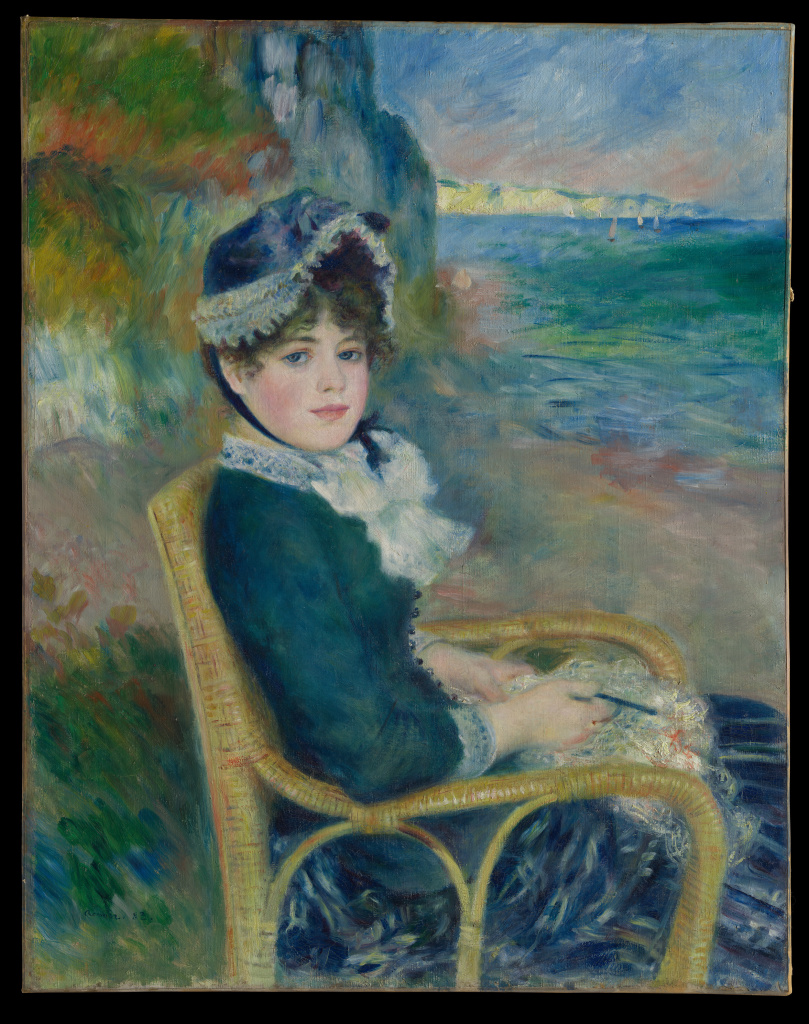
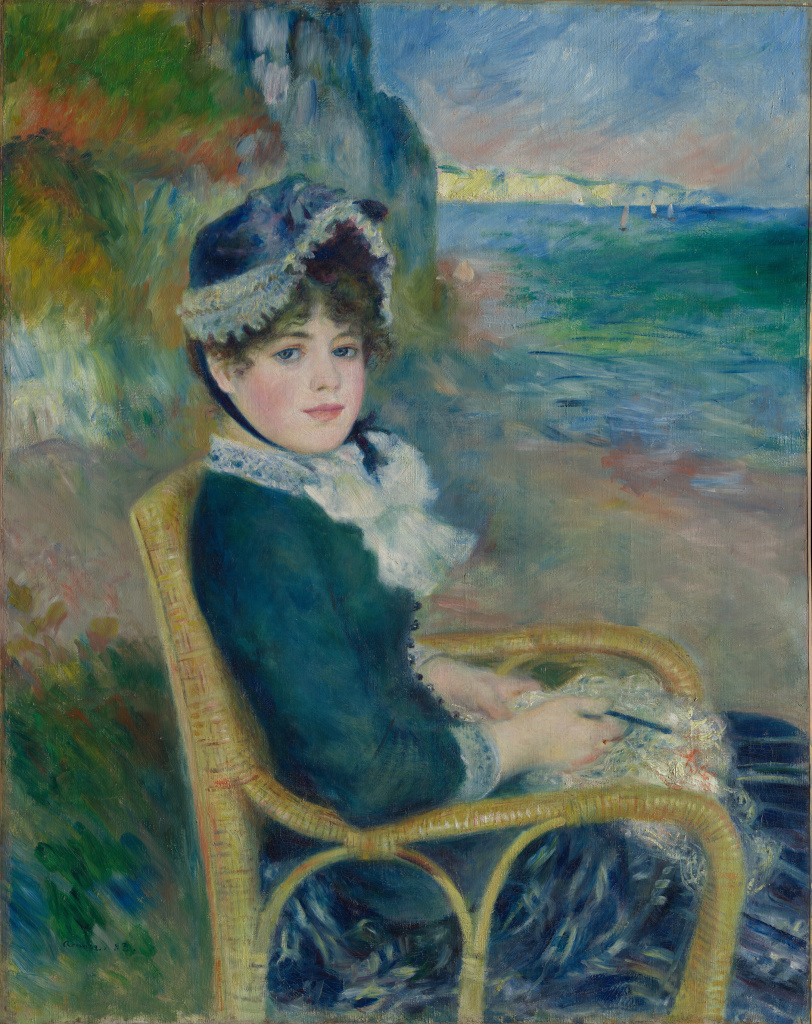
stick zoom, fixed borders

diff --git a/tools/prescale.c b/tools/prescale.c
@@ -1,13 +1,28 @@
 // Host tool: shrink an image so its long side is at most MAXSIDE and write it out as a
 // lossless PNG, or as a JPEG if out ends in .jpg (quality PRESCALE_JPGQ, 4:4:4).
 // Uses the same area-average scaler as the 3DS (source/imgscale.c). Never upscales.
+// Near-black borders (like museum photos shot against black) are trimmed first, plus a
+// small inset so no dark fringe survives.
 //   prescale <maxside> <in> <out.png|out.jpg>
+#include <stdint.h>
 #include <stdio.h>
 #include <stdlib.h>
 #include <string.h>
 #include <strings.h>
 
 #define PRESCALE_JPGQ 95
+#define PRESCALE_BLACK 12        // A border row/column has mean brightness below this
+#define PRESCALE_INSET 0.005f    // Extra trim past the border, fraction of the image size
+
+// Mean brightness of n pixels starting at (x, y), stepping (dx, dy)
+static float prescale_line(const uint8_t * p, int w, int x, int y, int dx, int dy, int n) {
+  float s = 0;
+  for(int i = 0; i < n; i++) {
+    const uint8_t * q = p + ((size_t)(y + dy * i) * w + x + dx * i) * 3;
+    s += (q[0] + q[1] + q[2]) / 3.0f;
+  }
+  return s / n;
+}
 
 #include "imgscale.h"
 
@@ -27,11 +42,22 @@ int main(int argc, char ** argv) {
     fprintf(stderr, "%s: %s\n", argv[2], stbi_failure_reason());
     return 1;
   }
-  float s = (float)maxside / (w > h ? w : h);
+  // Trim black borders (never more than a quarter per side), then the inset if any was found
+  int t = 0, b = 0, l = 0, r = 0;
+  while(t < h / 4 && prescale_line(src, w, 0, t, 1, 0, w) < PRESCALE_BLACK) t++;
+  while(b < h / 4 && prescale_line(src, w, 0, h - 1 - b, 1, 0, w) < PRESCALE_BLACK) b++;
+  while(l < w / 4 && prescale_line(src, w, l, 0, 0, 1, h) < PRESCALE_BLACK) l++;
+  while(r < w / 4 && prescale_line(src, w, w - 1 - r, 0, 0, 1, h) < PRESCALE_BLACK) r++;
+  if(t + b + l + r > 0) {
+    int ix = (int)(w * PRESCALE_INSET + 0.5f), iy = (int)(h * PRESCALE_INSET + 0.5f);
+    t += iy; b += iy; l += ix; r += ix;
+  }
+  int cw = w - l - r, ch = h - t - b;
+  float s = (float)maxside / (cw > ch ? cw : ch);
   if(s > 1) s = 1;
-  int dw = (int)(w * s + 0.5f), dh = (int)(h * s + 0.5f);
+  int dw = (int)(cw * s + 0.5f), dh = (int)(ch * s + 0.5f);
   uint8_t * dst = malloc((size_t)dw * dh * 3);
-  if(!dst || imgscale_area(src, w, h, 3, 0, 0, w, h, dst, dw, dh)) {
+  if(!dst || imgscale_area(src, w, h, 3, l, t, cw, ch, dst, dw, dh)) {
     fprintf(stderr, "out of memory\n");
     return 1;
   }
@@ -47,7 +73,7 @@ int main(int argc, char ** argv) {
     fprintf(stderr, "can't write %s\n", argv[3]);
     return 1;
   }
-  printf("%s: %dx%d -> %dx%d\n", argv[3], w, h, dw, dh);
+  printf("%s: %dx%d, trimmed t%d b%d l%d r%d -> %dx%d\n", argv[3], w, h, t, b, l, r, dw, dh);
   free(dst);
   stbi_image_free(src);
   return 0;

diff --git a/source_app/game.h b/source_app/game.h
@@ -5,6 +5,7 @@
 
 #include "board.h"
 #include "camera.h"
+#include "stick.h"
 #include "puzzlegfx.h"
 #include "render.h"
 #include "savewriter.h"
@@ -16,8 +17,12 @@
 #define GAME_SNAP 0.3f            // Snap distance, in cells
 #define GAME_MAXZOOM 2.0f
 #define GAME_STARTCELL 28.0f      // Starting zoom shows a cell this many pixels wide
-#define GAME_ZOOMSTEP 1.15f
-#define GAME_PANSPEED 7.0f        // Pixels per frame at full circle pad
+#define GAME_ZOOMSTEP 1.15f       // Per D-pad / X / B press or repeat
+#define GAME_STICKZOOM 1.035f     // Per frame zoom factor at full C-stick tilt (New 3DS)
+#define GAME_CSTICK_RANGE 146     // C-stick full tilt (guess; values past it just clamp)
+#define GAME_PANSPEED 10.0f       // Pixels per frame at full circle pad
+#define GAME_STICK_DEADZONE 0.12f // Fraction of stick travel ignored
+#define GAME_STICK_CURVE 2.0f     // Pan speed grows with tilt^this (slow and precise near center)
 #define GAME_EDGEPAN 18           // Dragging this close to the screen edge pans
 #define GAME_EDGEPANSPEED 4.0f
 #define GAME_AUTOSAVE_MS 30000
@@ -31,6 +36,7 @@ typedef struct {
   u32 down, held, up, repeat;
   touchPosition touch;
   circlePosition circle;
+  circlePosition cstick;  // New 3DS only; always 0,0 elsewhere
 } GameInput;
 
 // One puzzle being played: the board, the view onto it, its graphics, and the
@@ -38,6 +44,8 @@ typedef struct {
 typedef struct {
   Board board;
   Camera cam;
+  Stick stick;
+  Stick cstick;
   PuzzleGfx gfx;
   char name[256];
   uint32_t target;

diff --git a/source_app/game.c b/source_app/game.c
@@ -6,6 +6,7 @@
 #include <stdio.h>
 #include <stdlib.h>
 #include <string.h>
+#include <math.h>
 
 #define GAME_ERR(...) { snprintf(err, errlen, __VA_ARGS__); }
 
@@ -76,6 +77,8 @@ int game_init(Game * g, const char * name, uint32_t target, uint8_t style, SaveW
     g->dirty = 1;
   }
   camera_init(&g->cam, 320, 240, tw, th, GAME_MAXZOOM);
+  stick_init(&g->stick, 156, GAME_STICK_DEADZONE, GAME_STICK_CURVE);
+  stick_init(&g->cstick, GAME_CSTICK_RANGE, GAME_STICK_DEADZONE, GAME_STICK_CURVE);
   camera_set(&g->cam, tw / 2, th / 2, GAME_STARTCELL / l->cell);
   g->lastsave = osGetTime();
   if(!cont) game_save(g, 1);
@@ -146,10 +149,13 @@ int game_update(Game * g, const GameInput * in) {
   // Zoom: up/down, or X/B for the other hand
   if(in->repeat & (KEY_DUP | KEY_X)) camera_zoom(c, GAME_ZOOMSTEP);
   if(in->repeat & (KEY_DDOWN | KEY_B)) camera_zoom(c, 1.0f / GAME_ZOOMSTEP);
+  // Smooth zoom on the New 3DS C-stick, up = in, same response curve as panning
+  float zx, zy;
+  if(stick_read(&g->cstick, 0, in->cstick.dy, &zx, &zy)) camera_zoom(c, powf(GAME_STICKZOOM, zy));
   // Pan: circle pad
-  float cx = in->circle.dx, cy = -in->circle.dy;
-  if(cx * cx + cy * cy > 20 * 20) {
-    camera_pan(c, cx / 156.0f * GAME_PANSPEED, cy / 156.0f * GAME_PANSPEED);
+  float px, py;
+  if(stick_read(&g->stick, in->circle.dx, -in->circle.dy, &px, &py)) {
+    camera_pan(c, px * GAME_PANSPEED, py * GAME_PANSPEED);
   }
 
   if(in->down & KEY_TOUCH) {

diff --git a/source_test/test_board.c b/source_test/test_board.c
@@ -2,6 +2,7 @@
 #include "board.h"
 #include "boardsave.h"
 #include "camera.h"
+#include "stick.h"
 
 #include <stdlib.h>
 
@@ -205,4 +206,24 @@ void test_camera(void) {
   CHECKF(c.cx, 1610); CHECKF(c.cy, 595);
   camera_pan(&c, 1e6, 1e6);
   CHECKF(c.cx, 3200); CHECKF(c.cy, 1200);
+}
+
+void test_stick(void) {
+  Stick s;
+  stick_init(&s, 156, 0.12f, 2);
+  float x, y;
+  CHECK(stick_read(&s, 10, 5, &x, &y) == 0 && x == 0 && y == 0);   // deadzone
+  CHECK(stick_read(&s, 0, 0, &x, &y) == 0);
+  CHECK(stick_read(&s, 156, 0, &x, &y) == 1);
+  CHECKF(x, 1); CHECKF(y, 0);
+  CHECK(stick_read(&s, 0, -300, &x, &y) == 1);                     // clamps past full
+  CHECKF(x, 0); CHECKF(y, -1);
+  // Just outside the deadzone is barely moving; halfway is well under half speed
+  stick_read(&s, 156 * 0.13f, 0, &x, &y);
+  CHECK(x > 0 && x < 0.01f);
+  stick_read(&s, 156 * 0.56f, 0, &x, &y);
+  CHECK(x > 0.2f && x < 0.3f);
+  // Direction preserved on diagonals
+  stick_read(&s, 100, 100, &x, &y);
+  CHECKF(x, y);
 }

diff --git a/source/stick.h b/source/stick.h
@@ -1,0 +1,16 @@
+#ifndef __HEADER_JIGSAW_STICK__
+#define __HEADER_JIGSAW_STICK__
+
+// Analog stick response: raw stick values (about -156..156 on the 3DS) to a direction
+// scaled 0..1, with a deadzone and a curve so small tilts are slow and precise.
+typedef struct {
+  float range;      // Raw value that counts as full tilt
+  float deadzone;   // Fraction of range ignored around the center
+  float power;      // Response curve exponent (1 = linear, 2 = quadratic)
+} Stick;
+
+void stick_init(Stick * s, float range, float deadzone, float power);
+// Output vector has length 0..1 in the stick's direction. Returns 0 if inside the deadzone.
+int stick_read(const Stick * s, float dx, float dy, float * ox, float * oy);
+
+#endif

diff --git a/source_app/render.h b/source_app/render.h
@@ -13,7 +13,7 @@
 #define RENDER_COLOR_VOID   C2D_Color32(24, 26, 30, 255)
 #define RENDER_TABLECOLORS  10      // Size of the table color palette (see render.c)
 #define RENDER_COLOR_GLOW   C2D_Color32(0, 0, 0, 70)  // Shadow blob color; alpha = strength per blob
-#define RENDER_GLOW_SIZE    1.9f    // Shadow blob diameter, in cells
+#define RENDER_GLOW_SIZE    1.52f   // Shadow blob diameter, in cells
 #define RENDER_GLOW_CORE    0.5f    // Fraction of the blob radius that's solid before fading
 #define RENDER_GLOW_SQUARE  4.0f    // Blob shape: 2 = circle, higher = squarer (rounded corners)
 #define RENDER_GLOW_OFFSET  0.15f   // Shadow offset down-right, in cells (scales with zoom)

diff --git a/source/stick.c b/source/stick.c
@@ -1,0 +1,24 @@
+#include "stick.h"
+
+#include <math.h>
+
+void stick_init(Stick * s, float range, float deadzone, float power) {
+  s->range = range;
+  s->deadzone = deadzone;
+  s->power = power;
+}
+
+int stick_read(const Stick * s, float dx, float dy, float * ox, float * oy) {
+  float len = sqrtf(dx * dx + dy * dy);
+  float m = len / s->range;
+  if(m > 1) m = 1;
+  if(len <= 0 || m <= s->deadzone) {
+    *ox = *oy = 0;
+    return 0;
+  }
+  // Remap so the curve starts from 0 right at the deadzone edge (no jump)
+  float t = powf((m - s->deadzone) / (1 - s->deadzone), s->power);
+  *ox = dx / len * t;
+  *oy = dy / len * t;
+  return 1;
+}

diff --git a/source_app/main.c b/source_app/main.c
@@ -122,6 +122,7 @@ int main(int argc, char ** argv) {
     in.repeat = hidKeysDownRepeat();
     hidTouchRead(&in.touch);
     hidCircleRead(&in.circle);
+    hidCstickRead(&in.cstick);
 
     if(app.mode == MODE_MENU) {
       PuzzleChoice choice = puzzlemenu_update(&app.menu, in.down, in.repeat);

diff --git a/source_test/test.h b/source_test/test.h
@@ -14,6 +14,7 @@ extern int test_checks;
 void test_board(void);
 void test_boardsave(void);
 void test_camera(void);
+void test_stick(void);
 void test_layout(void);
 void test_edgegen(void);
 void test_edgegen_irregular(void);

diff --git a/source_test/main.c b/source_test/main.c
@@ -15,6 +15,7 @@ int main(int argc, char ** argv) {
   RUN(test_board);
   RUN(test_boardsave);
   RUN(test_camera);
+  RUN(test_stick);
   RUN(test_layout);
   RUN(test_edgegen);
   RUN(test_edgegen_irregular);

diff --git a/tools/stubs/3ds.h b/tools/stubs/3ds.h
@@ -54,3 +54,4 @@ Result svcGetThreadPriority(s32 * out, Handle handle); void svcSleepThread(s64 n
 #ifndef U64_MAX
 #define U64_MAX UINT64_MAX
 #endif
+void hidCstickRead(circlePosition * pos);
